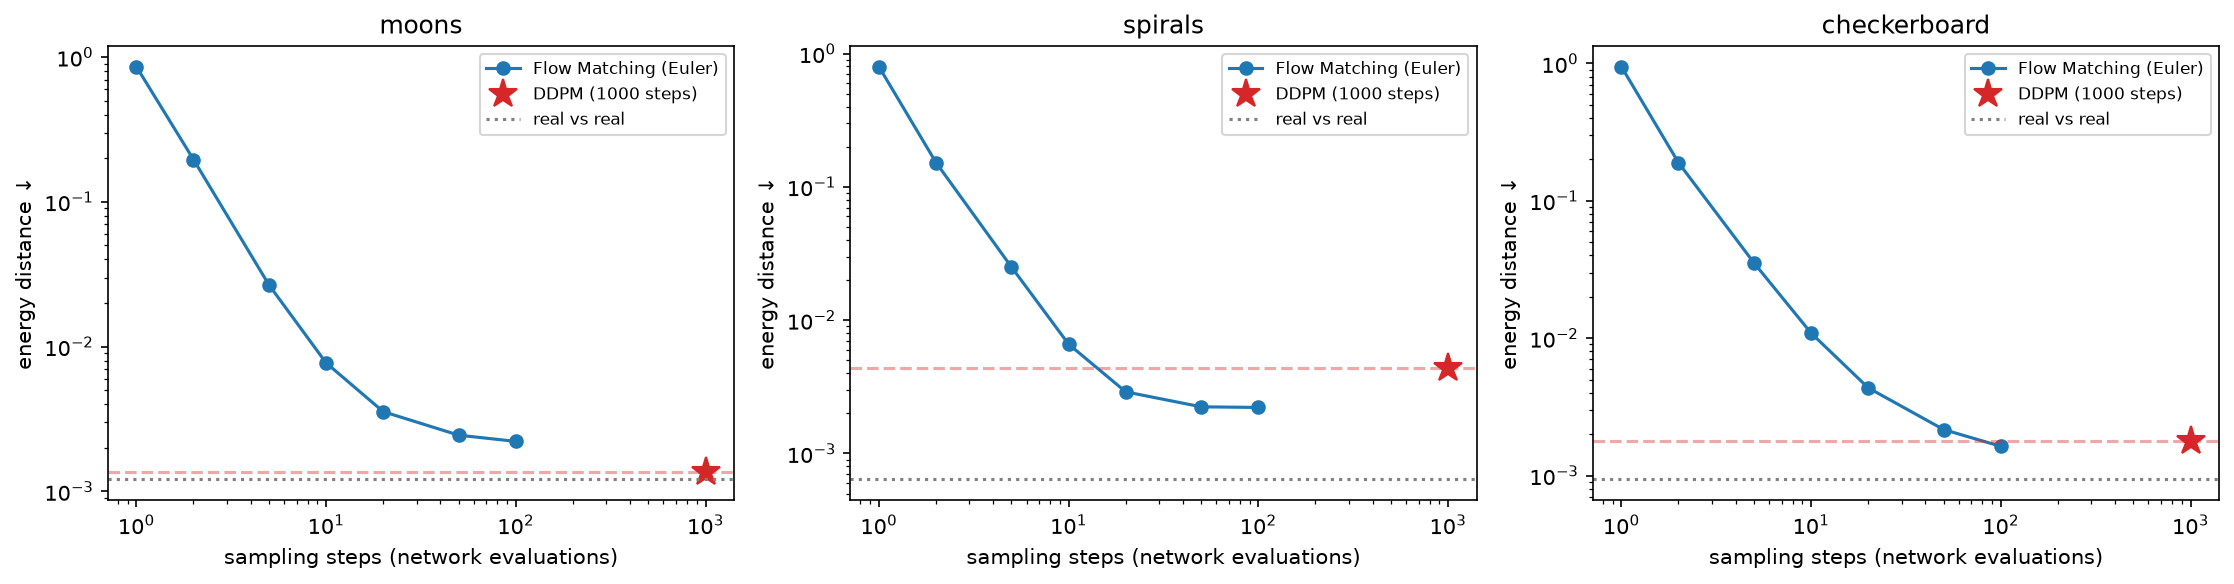
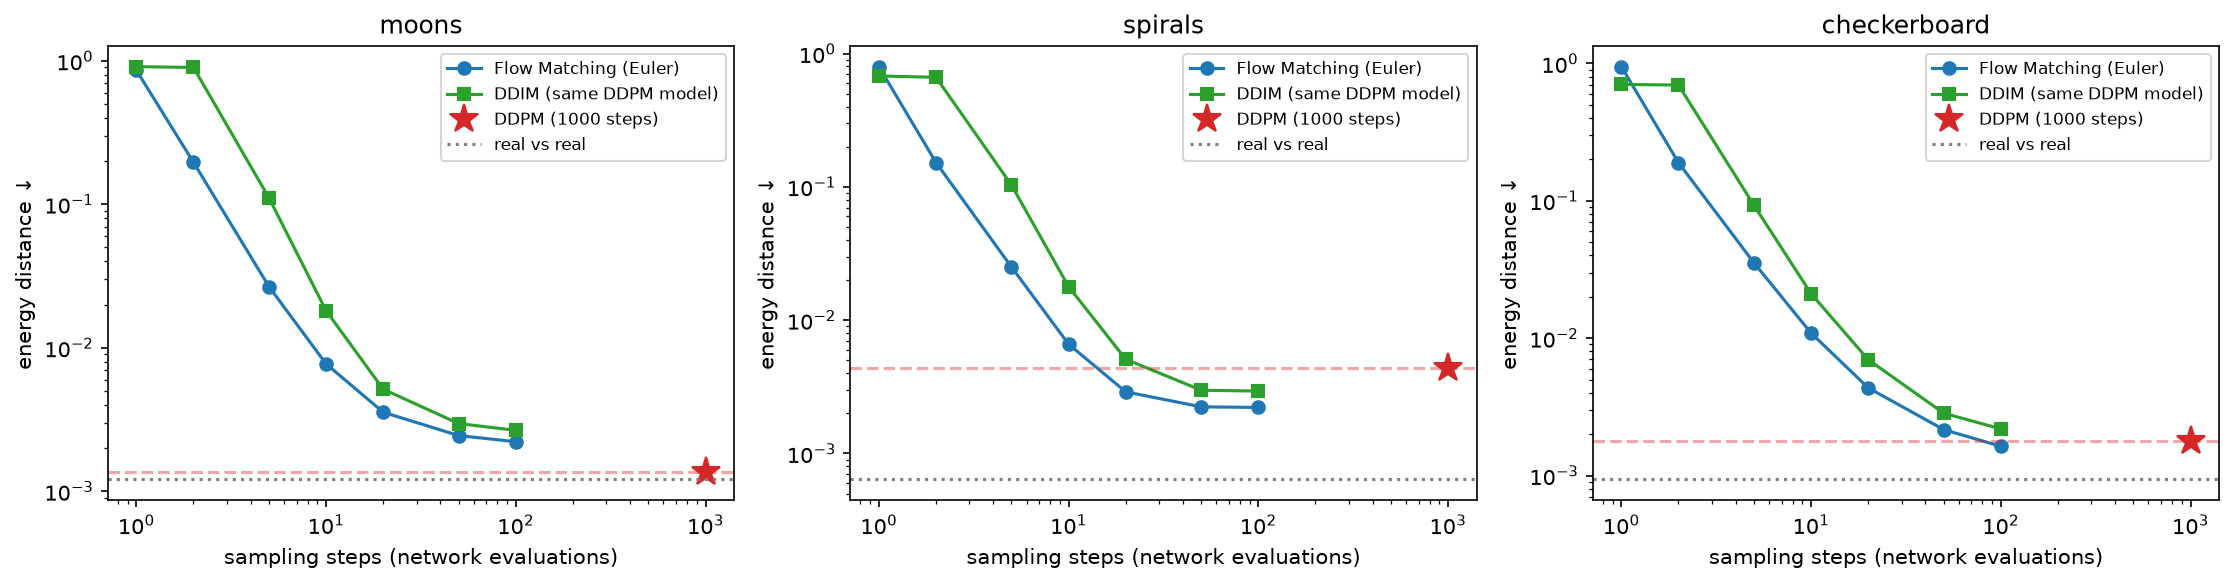
Added DDIM sampler and equal-steps comparison

diff --git a/src/dvfm/ddpm.py b/src/dvfm/ddpm.py
@@ -75,3 +75,45 @@ def ddpm_sample(
     if return_trajectory:
         return x, trajectory
     return x
+
+
+@torch.no_grad()
+def ddim_sample(
+    model: nn.Module,
+    schedule: DDPMSchedule,
+    n: int,
+    num_steps: int = 50,
+    return_trajectory: bool = False,
+    clip: float = 3.0,
+) -> torch.Tensor | tuple[torch.Tensor, list[torch.Tensor]]:
+    """Deterministic DDIM sampling (Song et al., 2021) with a DDPM-trained model.
+
+    Uses only `num_steps` timesteps, evenly spaced between T-1 and 0.
+    """
+    T = schedule.num_timesteps
+    timesteps = torch.linspace(T - 1, 0, num_steps).long().tolist()  # e.g. [999, 946, ..., 0]
+
+    x = torch.randn(n, 2)  # start from pure noise
+    trajectory = [x.clone()]
+
+    for i, t in enumerate(timesteps):
+        t_prev = timesteps[i + 1] if i + 1 < len(timesteps) else -1  # -1 means "clean data"
+
+        t_input = torch.full((n,), t / T)
+        eps_pred = model(x, t_input)
+
+        alpha_bar = schedule.alpha_bars[t]
+        alpha_bar_prev = schedule.alpha_bars[t_prev] if t_prev >= 0 else torch.tensor(1.0)
+
+        # 1. Estimate the clean data from the predicted noise
+        x0_pred = (x - torch.sqrt(1 - alpha_bar) * eps_pred) / torch.sqrt(alpha_bar)
+        x0_pred = x0_pred.clamp(-clip, clip)
+
+        # 2. Jump to t_prev using that estimate and the same predicted noise (no fresh noise)
+        x = torch.sqrt(alpha_bar_prev) * x0_pred + torch.sqrt(1 - alpha_bar_prev) * eps_pred
+
+        trajectory.append(x.clone())
+
+    if return_trajectory:
+        return x, trajectory
+    return x
